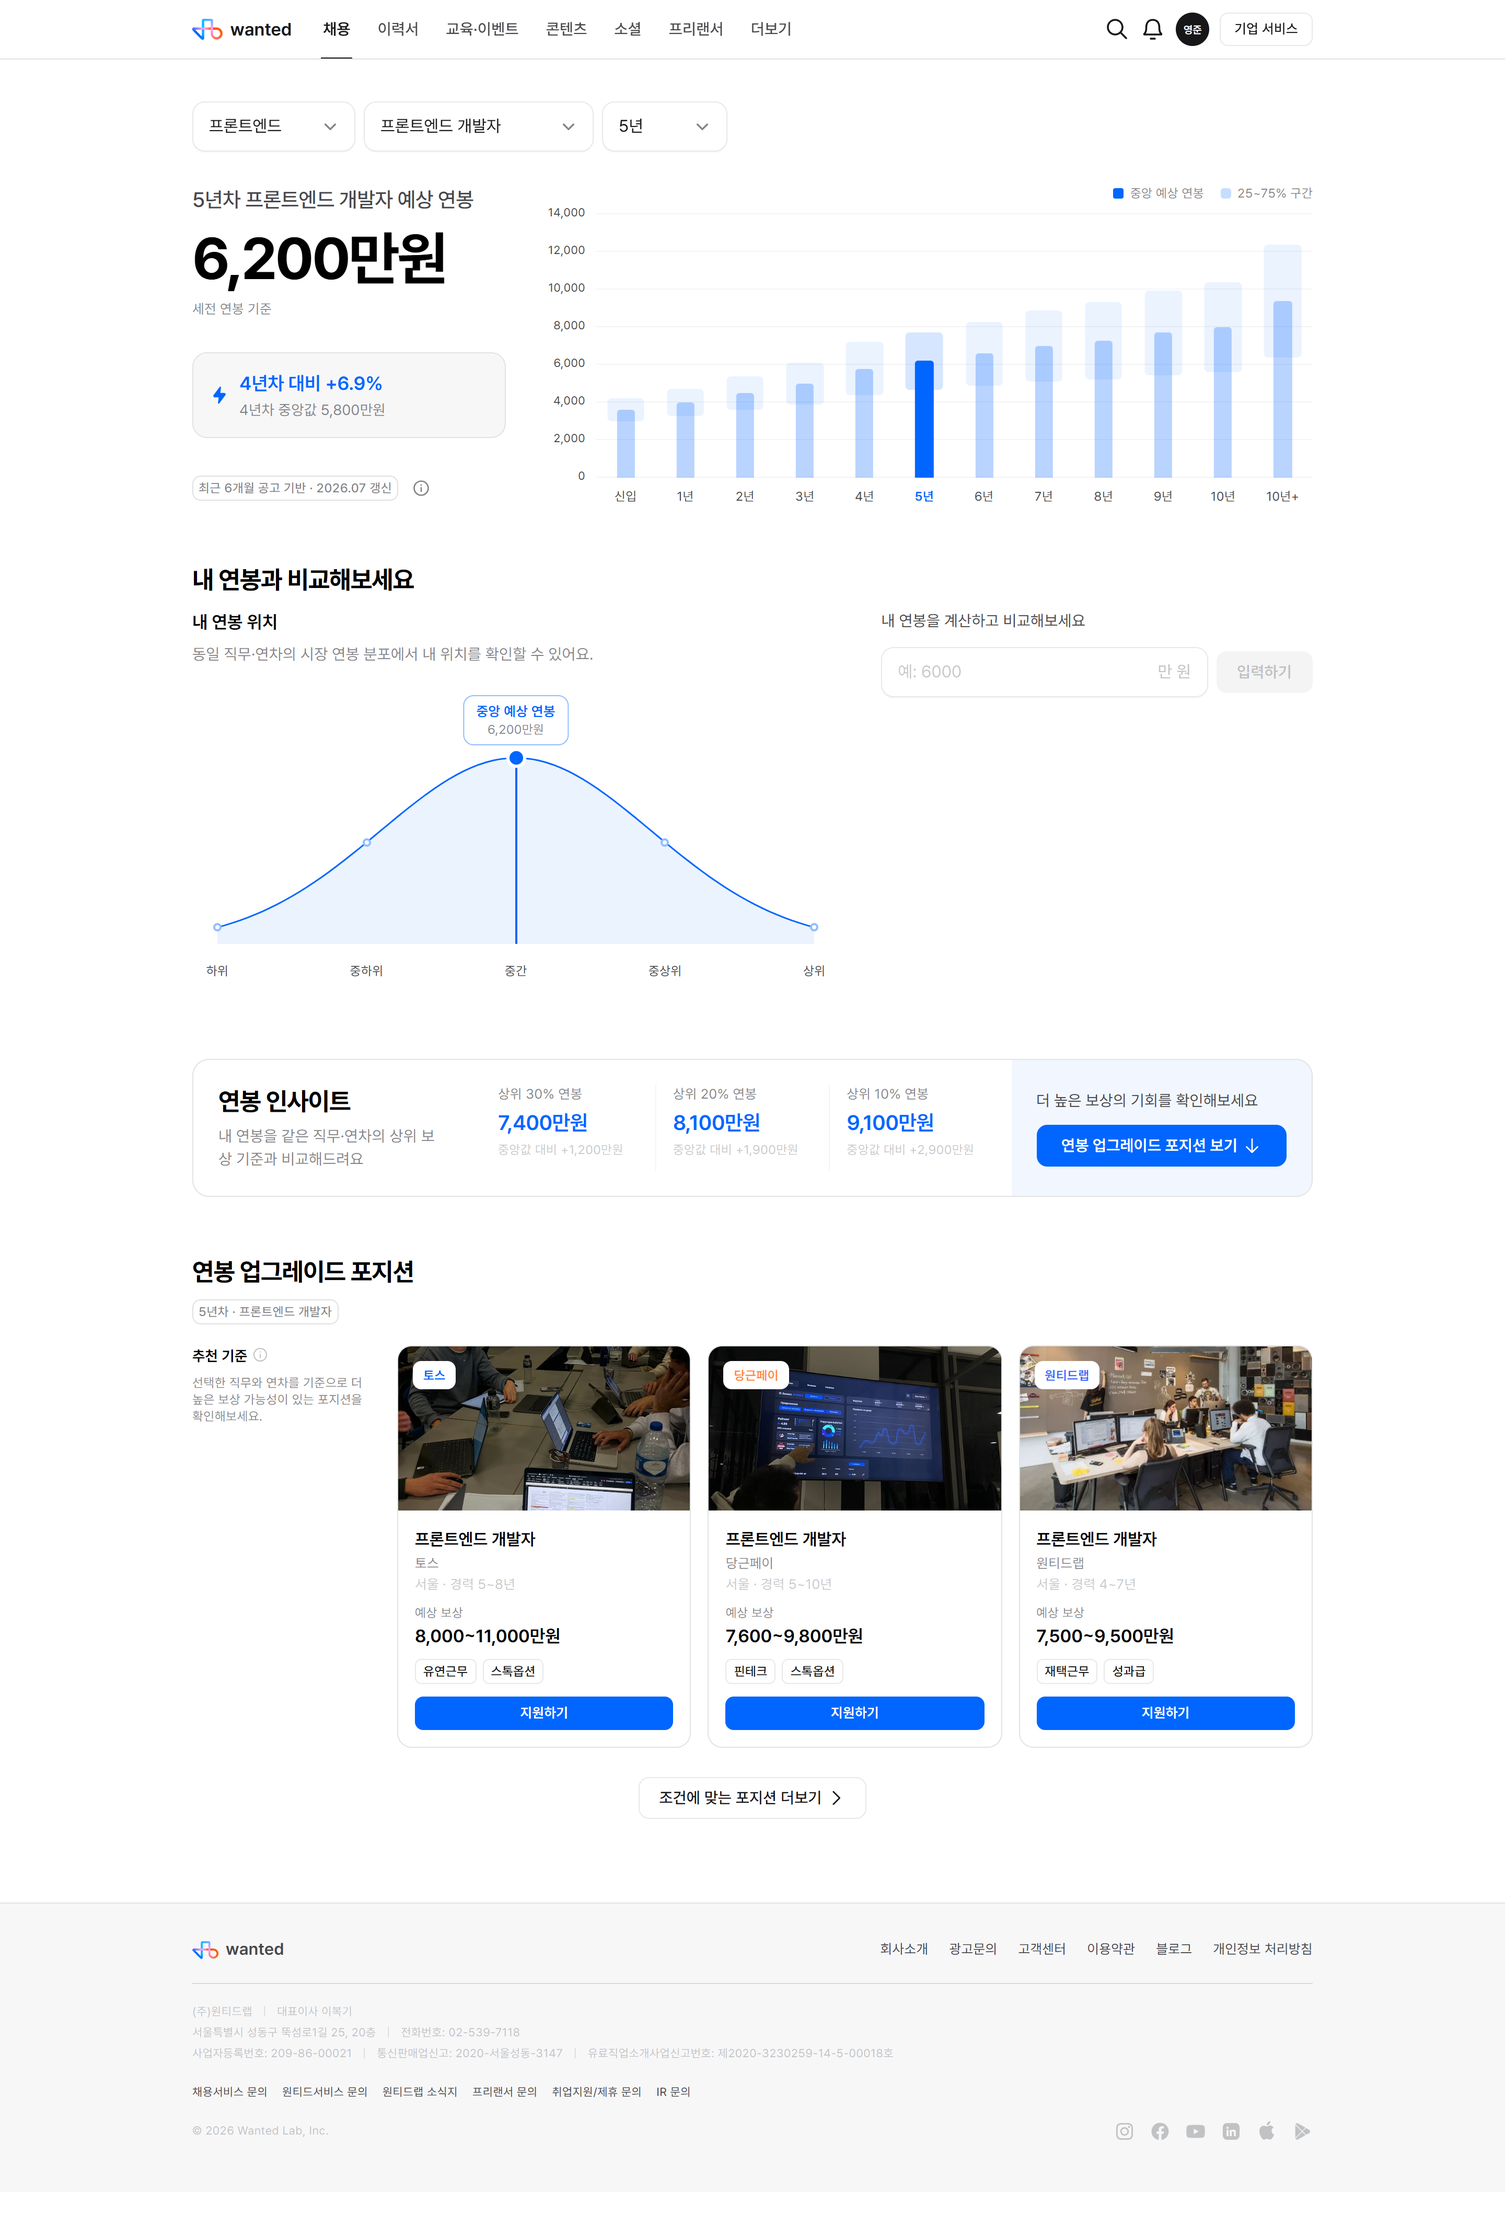
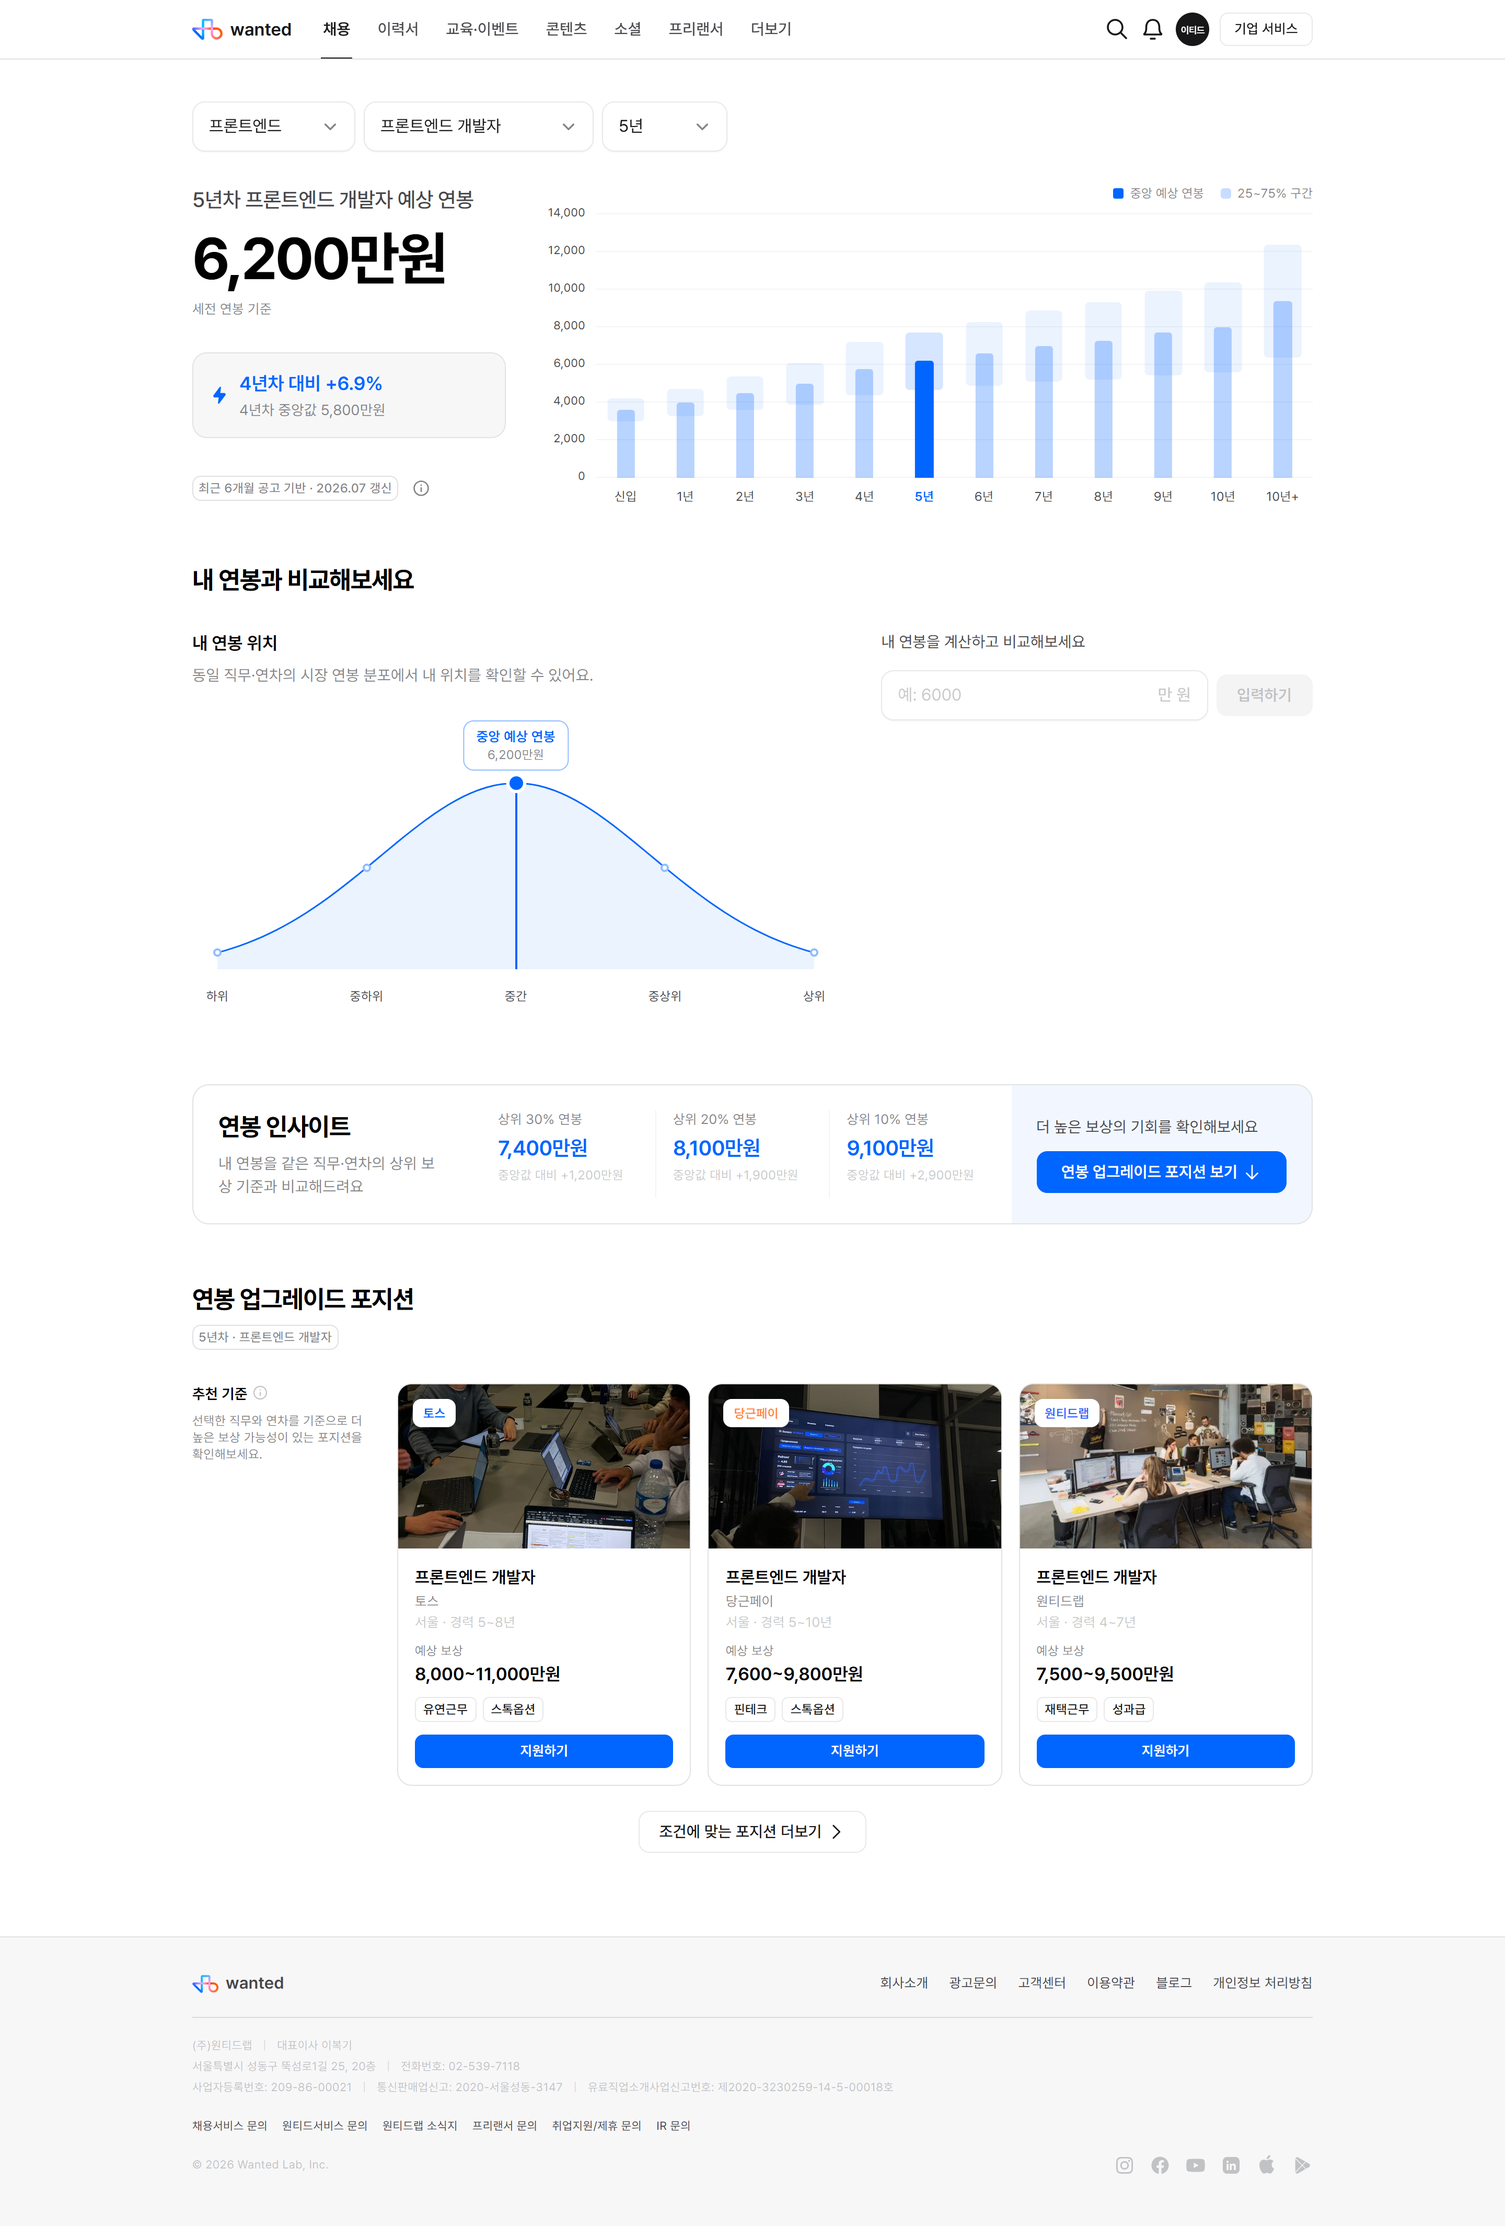
feat: 역할 기반 간격 규약을 전 섹션에 적용하고 프로필 이름 변경
세로 리듬을 값이 아니라 역할로 정의해 src/styles/spacing.ts 한 곳에서
관리하고, Hero · 내 연봉 비교 · 인사이트 · 포지션 · 푸터에 적용한다.
모든 값은 Montage 스케일 위에 있다.

- 섹션 제목 → 본문 간격을 32px(titleToContent)로 통일.
  "내 연봉과 비교해보세요" ↔ "내 연봉 위치" 가 12px 로 붙어 있어
  제목이 본문에 먹히던 문제를 해소한다.
- 연봉 업그레이드 포지션: 제목→배지 8px, 배지→본문 32px 로
  헤더 묶음과 본문의 경계를 분명히 한다. 더보기 버튼 28px(스케일 밖) → 24px.
- 컬럼 거터 40px, 섹션 간 56px, 푸터 80px 을 상수로 환원.
- 차트 내부 기하(범례→플롯 12px, 플롯→축 10px)는 PLOT_HEIGHT 정렬
  계산에 묶여 있어 그대로 둔다.
- GNB 프로필 아바타 이름을 "이티드"로 변경. 3글자가 들어가도록
  타이포를 9px / letter-spacing -0.3px 로 조정한다.

diff --git a/src/components/salary/UpgradePositionsSection.tsx b/src/components/salary/UpgradePositionsSection.tsx
@@ -31,6 +31,7 @@ import {
   sectionContainerStyle,
   sectionSpacingStyle,
 } from "./shared.style";
+import { SPACING, px } from "@/styles/spacing";
 
 import type { CareerLevel, RecommendedPosition } from "@/data/salary";
 
@@ -81,14 +82,22 @@ export function UpgradePositionsSection({
       </Typography>
 
       {/* 현재 추천에 적용된 조건을 보여주는 context label. 조작 가능한 필터가 아니다. */}
-      <Box sx={{ marginTop: "10px" }}>
+      <Box sx={{ marginTop: px(SPACING.tight) }}>
         <ContentBadge color="neutral" size="small" variant="outlined">
           {careerPhrase(level)} · {jobName}
         </ContentBadge>
       </Box>
 
-      <FlexBox gap="24px" sx={[positionsBodyStyle, { marginTop: "20px" }]}>
-        <FlexBox flexDirection="column" gap="8px" sx={criteriaColumnStyle}>
+      {/* 제목+배지를 한 헤더 묶음으로 보고, 그 아래 본문까지 titleToContent 를 둔다. */}
+      <FlexBox
+        gap={px(SPACING.block)}
+        sx={[positionsBodyStyle, { marginTop: px(SPACING.titleToContent) }]}
+      >
+        <FlexBox
+          flexDirection="column"
+          gap={px(SPACING.tight)}
+          sx={criteriaColumnStyle}
+        >
           <FlexBox alignItems="center" gap="4px">
             <Typography variant="label1" weight="bold">
               추천 기준
@@ -118,7 +127,7 @@ export function UpgradePositionsSection({
               확인해보세요.
             </Typography>
           ) : (
-            <Grid spacing={16}>
+            <Grid spacing={SPACING.group}>
               {visible.map((position) => (
                 /* 모바일 1열 → sm 2열 → md 이상 3열 */
                 <GridItem
@@ -227,7 +236,7 @@ export function UpgradePositionsSection({
       </FlexBox>
 
       {canExpand && (
-        <FlexBox justifyContent="center" sx={{ marginTop: "28px" }}>
+        <FlexBox justifyContent="center" sx={{ marginTop: px(SPACING.block) }}>
           <Button
             variant="outlined"
             color="assistive"

diff --git a/src/components/salary/HeroSection.style.ts b/src/components/salary/HeroSection.style.ts
@@ -1,9 +1,11 @@
 import { css } from "@wanteddev/wds";
 
+import { SPACING, px } from "@/styles/spacing";
+
 import type { Theme } from "@wanteddev/wds";
 
 export const heroTopSpacingStyle = css`
-  margin-top: 40px;
+  margin-top: ${px(SPACING.pageTop)};
 `;
 
 export const filterRowStyle = css`
@@ -30,10 +32,10 @@ export const heroGridStyle = css`
    * row-gap(32px) 그대로 유지된다. ("세전 연봉 기준"→trend 간격과 동일)
    */
   grid-template-rows: auto auto;
-  column-gap: 40px;
-  row-gap: 32px;
+  column-gap: ${px(SPACING.columnGutter)};
+  row-gap: ${px(SPACING.majorBlock)};
   align-items: start;
-  margin-top: 32px;
+  margin-top: ${px(SPACING.titleToContent)};
 
   /* WDS md 브레이크포인트(992px)와 맞춰 금액 타이포 단계와 함께 전환된다. */
   @media (max-width: 991px) {
@@ -93,7 +95,7 @@ export const heroTitleStyle = css`
  * 대신 "1억" 뒤 공백에서만 줄바꿈된다. keep-all 로 "1,000만원" 내부는 쪼개지지 않는다.
  */
 export const heroAmountStyle = css`
-  margin-top: 12px;
+  margin-top: ${px(SPACING.displayPair)};
   word-break: keep-all;
   /*
    * display1 의 기본 line-height(72px)는 56px 글자 대비 여백이 커서
@@ -108,14 +110,14 @@ export const heroAmountStyle = css`
 `;
 
 export const heroBaseNoteStyle = css`
-  margin-top: 8px;
+  margin-top: ${px(SPACING.tight)};
 `;
 
 /** 직전 연차 대비 정보. Hero 전체보다 낮은 위계의 neutral surface. */
 export const trendSurfaceStyle = (theme: Theme) => css`
   align-self: stretch;
-  margin-top: 32px;
-  padding: 16px;
+  margin-top: ${px(SPACING.majorBlock)};
+  padding: ${px(SPACING.group)};
   border-radius: 14px;
   background-color: ${theme.semantic.background.normal.alternative};
   border: 1px solid ${theme.semantic.line.solid.normal};

diff --git a/src/components/salary/SalaryCompareSection.tsx b/src/components/salary/SalaryCompareSection.tsx
@@ -21,6 +21,7 @@ import {
   sectionSpacingStyle,
   softSurfaceStyle,
 } from "./shared.style";
+import { SPACING, px } from "@/styles/spacing";
 
 import type { CareerLevel, SalaryPoint } from "@/data/salary";
 
@@ -74,15 +75,19 @@ export function SalaryCompareSection({
         내 연봉과 비교해보세요
       </Typography>
 
-      <Box sx={[compareBodyStyle, { marginTop: "12px" }]}>
-        <FlexBox flexDirection="column" gap="8px" sx={compareChartColumnStyle}>
+      <Box sx={[compareBodyStyle, { marginTop: px(SPACING.titleToContent) }]}>
+        <FlexBox
+          flexDirection="column"
+          gap={px(SPACING.tight)}
+          sx={compareChartColumnStyle}
+        >
           <Typography as="h3" variant="headline2" weight="bold">
             내 연봉 위치
           </Typography>
           <Typography variant="body2" color="semantic.label.alternative">
             동일 직무·연차의 시장 연봉 분포에서 내 위치를 확인할 수 있어요.
           </Typography>
-          <Box sx={{ marginTop: "12px" }}>
+          <Box sx={{ marginTop: px(SPACING.group) }}>
             <SalaryDistributionChart
               point={point}
               selectedSalary={selectedSalary}
@@ -92,7 +97,11 @@ export function SalaryCompareSection({
           </Box>
         </FlexBox>
 
-        <FlexBox flexDirection="column" gap="14px" sx={compareInputColumnStyle}>
+        <FlexBox
+          flexDirection="column"
+          gap={px(SPACING.group)}
+          sx={compareInputColumnStyle}
+        >
           {/* 신입은 비교 기준이 될 현재 연봉이 없을 수 있어 시장 벤치마크를 먼저 보여준다. */}
           {newGrad && (
             <FlexBox flexDirection="column" gap="10px" sx={softSurfaceStyle}>

diff --git a/src/styles/spacing.ts b/src/styles/spacing.ts
@@ -8,6 +8,12 @@
  *
  * 그래서 아래 값은 전부 Montage 스케일 위의 값만 사용하고,
  * 역할 이름을 붙여 한 곳에서 관리한다. 컴포넌트에 흩어진 매직 넘버 대신 이 상수를 쓴다.
+ *
+ * 적용 범위
+ * - 세로 리듬(섹션 ↔ 섹션, 제목 → 본문, 블록 ↔ 블록)과 컬럼 거터는 전부 이 상수를 쓴다.
+ * - 한 컴포넌트 안에서만 쓰이는 미세 간격(아이콘 ↔ 라벨의 2·4·6px 등)은 이미 스케일
+ *   위에 있고 의미도 국소적이라 그대로 둔다. 규약을 넓히는 대신 위계가 드러나는
+ *   지점만 통제하는 쪽이 읽기 쉽다.
  */
 export const SPACING = {
   /** GNB 아래 → 첫 섹션 */
@@ -16,6 +22,12 @@ export const SPACING = {
   section: 56,
   /** 섹션 제목(헤더 묶음) → 섹션 본문 */
   titleToContent: 32,
+  /**
+   * 섹션 안에서 제목→본문과 같은 세기로 끊어 읽어야 하는 주요 블록 사이.
+   * 값은 의도적으로 titleToContent 와 같다. (Hero 요약 블록의 세로 리듬이
+   * 우측 차트의 행 간격과 어긋나지 않게 하기 위함)
+   */
+  majorBlock: 32,
   /** 본문 안의 블록 ↔ 블록 (본문 → 후속 CTA 등) */
   block: 24,
   /** 그룹 안 요소 ↔ 요소 */
@@ -24,6 +36,10 @@ export const SPACING = {
   tight: 8,
   /** 큰 숫자(display)와 바로 위 라벨. 시각적으로 한 덩어리로 읽히게 더 좁게 붙인다. */
   displayPair: 12,
+  /** 마지막 섹션 → 푸터. 섹션 사이보다 한 단계 더 크게 끊는다. */
+  pageBottom: 80,
+  /** 좌/우 컬럼 사이 거터 */
+  columnGutter: 40,
 } as const;
 
 /** `margin-top: 32px` 처럼 쓰기 위한 px 문자열 헬퍼. */

diff --git a/src/components/salary/SalaryInsightSection.tsx b/src/components/salary/SalaryInsightSection.tsx
@@ -17,6 +17,7 @@ import {
   insightTiersStyle,
 } from "./SalaryInsightSection.style";
 import { sectionContainerStyle, sectionSpacingStyle } from "./shared.style";
+import { SPACING, px } from "@/styles/spacing";
 
 import type { CareerLevel, SalaryPoint } from "@/data/salary";
 
@@ -56,7 +57,11 @@ export function SalaryInsightSection({
   return (
     <Box as="section" sx={[sectionContainerStyle, sectionSpacingStyle]}>
       <FlexBox sx={insightSurfaceStyle}>
-        <FlexBox flexDirection="column" gap="6px" sx={insightLeadStyle}>
+        <FlexBox
+          flexDirection="column"
+          gap={px(SPACING.tight)}
+          sx={insightLeadStyle}
+        >
           {/* 다른 섹션 제목(title3)과 위계를 맞춘다. */}
           <Typography as="h2" variant="title3" weight="bold">
             연봉 인사이트

diff --git a/src/components/salary/shared.style.ts b/src/components/salary/shared.style.ts
@@ -1,5 +1,7 @@
 import { css } from "@wanteddev/wds";
 
+import { SPACING, px } from "@/styles/spacing";
+
 import type { Theme } from "@wanteddev/wds";
 
 export const PAGE_MAX_WIDTH = 1120;
@@ -14,7 +16,7 @@ export const sectionContainerStyle = css`
 
 /** 섹션 사이 세로 리듬. 카드 대신 여백으로 섹션을 구분한다. */
 export const sectionSpacingStyle = css`
-  margin-top: 56px;
+  margin-top: ${px(SPACING.section)};
 `;
 
 /** 정보를 담는 옅은 면. 장식 효과 없이 fill 토큰만 사용한다. */

diff --git a/src/components/salary/SalaryCompareSection.style.ts b/src/components/salary/SalaryCompareSection.style.ts
@@ -1,5 +1,7 @@
 import { css } from "@wanteddev/wds";
 
+import { SPACING, px } from "@/styles/spacing";
+
 import type { Theme } from "@wanteddev/wds";
 
 /**
@@ -10,8 +12,8 @@ import type { Theme } from "@wanteddev/wds";
 export const compareBodyStyle = css`
   display: grid;
   grid-template-columns: minmax(0, 6fr) minmax(0, 4fr);
-  column-gap: 40px;
-  row-gap: 32px;
+  column-gap: ${px(SPACING.columnGutter)};
+  row-gap: ${px(SPACING.majorBlock)};
   align-items: start;
 
   @media (max-width: 991px) {

diff --git a/src/components/layout/GlobalFooter.style.ts b/src/components/layout/GlobalFooter.style.ts
@@ -1,11 +1,12 @@
 import { css } from "@wanteddev/wds";
 
 import { PAGE_MAX_WIDTH, focusRingStyle } from "../salary/shared.style";
+import { SPACING, px } from "@/styles/spacing";
 
 import type { Theme } from "@wanteddev/wds";
 
 export const footerRootStyle = (theme: Theme) => css`
-  margin-top: 80px;
+  margin-top: ${px(SPACING.pageBottom)};
   border-top: 1px solid ${theme.semantic.line.solid.normal};
   background-color: ${theme.semantic.background.normal.alternative};
 `;

diff --git a/src/components/layout/GlobalNav.style.ts b/src/components/layout/GlobalNav.style.ts
@@ -69,8 +69,10 @@ export const navMenuItemStyle = (active: boolean) => (theme: Theme) => css`
 export const avatarStyle = (theme: Theme) => css`
   background-color: ${theme.semantic.label.normal};
   color: ${theme.semantic.static.white};
-  font-size: 10px;
+  /* 3글자가 small 아바타 원 안에 여백을 남기고 들어가는 크기. */
+  font-size: 9px;
   font-weight: 600;
+  letter-spacing: -0.3px;
 
   [data-role="avatar-fallback"] {
     display: none;

diff --git a/src/components/layout/GlobalNav.tsx b/src/components/layout/GlobalNav.tsx
@@ -72,7 +72,7 @@ export function GlobalNav() {
           </IconButton>
           <AvatarButton aria-label="내 프로필">
             <Avatar size="small" sx={avatarStyle}>
-              영준
+              이티드
             </Avatar>
           </AvatarButton>
           <Button size="small" variant="outlined" color="assistive">

diff --git a/README.md b/README.md
@@ -82,7 +82,19 @@
 ### 그 외 설계 원칙
 
 - **단일 진실 공급원(Single source of truth)** — 직무·연차·내 연봉 상태를 페이지 최상단에서 한 번만 관리하고 모든 섹션이 이를 구독합니다.
-- **디자인 시스템 준수** — 임의의 색상·간격 값을 쓰지 않고 Montage 토큰만 사용했습니다. 간격은 Montage 스케일 위에서 역할(섹션 / 제목→본문 / 요소) 기준으로 정의한 규약(`src/styles/spacing.ts`)을 두고, 각 섹션에 순차 적용 중입니다.
+- **디자인 시스템 준수** — 임의의 색상·간격 값을 쓰지 않고 Montage 토큰만 사용했습니다.
+- **역할 기반 간격 규약** — 세로 리듬을 값이 아니라 역할로 정의해 `src/styles/spacing.ts` 한 곳에서 관리합니다. 모든 값은 Montage 스케일 위에 있습니다.
+
+  | 역할 | 값 | 쓰이는 곳 |
+  | --- | --- | --- |
+  | `section` | 56px | 섹션 ↔ 섹션 |
+  | `titleToContent` | 32px | 섹션 제목(헤더 묶음) → 본문 |
+  | `majorBlock` | 32px | 섹션 안 주요 블록 ↔ 블록 |
+  | `block` | 24px | 본문 → 후속 CTA |
+  | `group` | 16px | 그룹 안 요소 ↔ 요소 |
+  | `displayPair` | 12px | 라벨 → 큰 숫자 |
+  | `tight` | 8px | 제목 ↔ 부제 |
+
 - **접근성** — 시맨틱 헤딩 구조, 키보드 포커스 링, `aria-label`, `prefers-reduced-motion` 대응, 증감을 색상만으로 전달하지 않기.
 - **글래스모피즘 같은 장식적 효과 배제** — 모든 요소를 역할에 맞는 디자인 시스템 컴포넌트로 환원했습니다.
 
